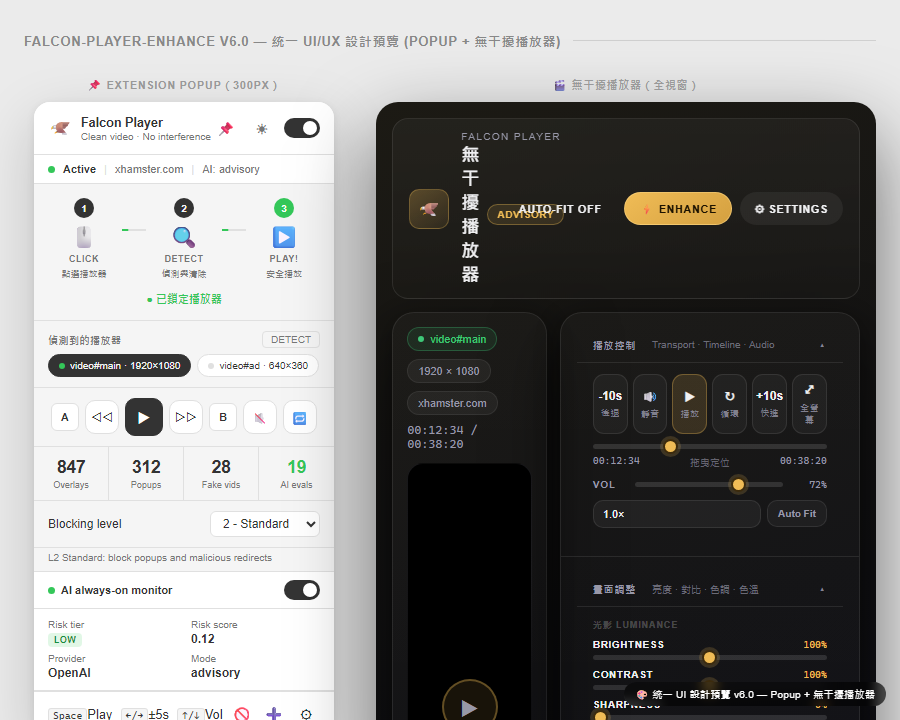
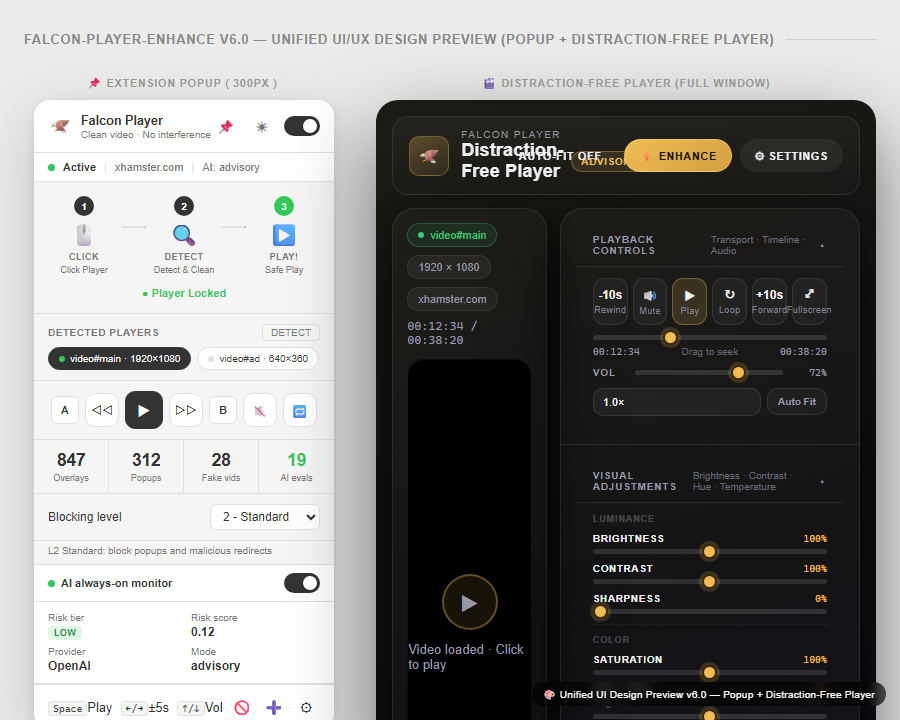
docs: retake all screenshots with English UI text
- Updated take-screenshots.js with runtime Chinese→English translation injection
- All preview page screenshots now display English UI labels
- Translation maps for both player-ui-preview and dashboard-preview
- Covers: controls, section headers, tooltips, banners, aria-labels

diff --git a/docs/take-screenshots.js b/docs/take-screenshots.js
@@ -5,26 +5,228 @@ const PROJECT_ROOT = path.resolve(__dirname, '..');
 const SCREENSHOTS_DIR = path.join(PROJECT_ROOT, 'docs', 'screenshots');
 const BASE = 'file:///' + PROJECT_ROOT.replace(/\\/g, '/');
 
+// ── Chinese → English translation map for Player preview ──
+function injectPlayerEnglish() {
+  const map = {
+    '統一 UI/UX 設計預覽 (Popup + 無干擾播放器)': 'Unified UI/UX Design Preview (Popup + Distraction-Free Player)',
+    '統一 UI/UX 設計預覽': 'Unified UI/UX Design Preview',
+    '點選播放器': 'Click Player',
+    '偵測與清除': 'Detect & Clean',
+    '安全播放': 'Safe Play',
+    '● 已鎖定播放器': '● Player Locked',
+    '已鎖定播放器': 'Player Locked',
+    '偵測到的播放器': 'Detected Players',
+    'Three-Gray token system · 300px 固定寬 · 支援深色模式':
+      'Three-Gray token system · 300px fixed width · Dark mode support',
+    '無干擾播放器（全視窗）': 'Distraction-Free Player (Full Window)',
+    '無干擾播放器': 'Distraction-Free Player',
+    '影片已載入 · 點選播放': 'Video loaded · Click to play',
+    '播放控制': 'Playback Controls',
+    '後退': 'Rewind',
+    '靜音': 'Mute',
+    '播放': 'Play',
+    '循環': 'Loop',
+    '快進': 'Forward',
+    '全螢幕': 'Fullscreen',
+    '拖曳定位': 'Drag to seek',
+    '畫面調整': 'Visual Adjustments',
+    '亮度 · 對比 · 色調 · 色溫': 'Brightness · Contrast · Hue · Temperature',
+    '光影 Luminance': 'Luminance',
+    '色彩 Color': 'Color',
+    '色調 Tint': 'Hue / Tint',
+    '洋紅 M': 'Magenta',
+    '綠 G': 'Green',
+    '色溫 Temp': 'Temperature',
+    '中性': 'Neutral',
+    '冷 Cool': 'Cool',
+    '暖 Warm': 'Warm',
+    '防護設定': 'Protection Settings',
+    'Link Shield · 嵌入保護': 'Link Shield · Embed Protection',
+    '封鎖嵌入連結': 'Block Embed Links',
+    '舞台重置': 'Reset Stage',
+    '在 iframe 模式下，防護層覆蓋嵌入頁面，防止意外廣告點擊與外部跳轉。':
+      'In iframe mode, the shield covers the embedded page to prevent accidental ad clicks and external redirects.',
+    '音量': 'Volume',
+    '設計說明 — 一致性決策': 'Design Notes — Consistency Decisions',
+    '共用 Token（兩個 UI 都遵守）': 'Shared Tokens (Both UIs)',
+    'Radius scale 統一': 'Unified radius scale',
+    'Font stack 統一': 'Unified font stack',
+    'Motion 統一': 'Unified motion easing',
+    'Accent 橋接': 'Accent bridging',
+    'Popup 主要改動': 'Popup Key Changes',
+    'Status bar 新增': 'New status bar',
+    'Player chip 重設計': 'Player chip redesign',
+    'Stats 第 4 欄': 'Stats 4th column',
+    'AI monitor panel 精簡': 'Streamlined AI monitor',
+    'Player v6 主要改動': 'Player v6 Key Changes',
+    '3 折疊分區取代 5 固定 section': '3 collapsible sections replace 5 fixed',
+    'Transport 改為 6 按鈕橫排': 'Transport: 6-button row layout',
+    '畫面調整新增色調 Tint + 色溫 Temp': 'Added Hue/Tint + Color Temperature',
+    '移除 AI panel': 'Removed AI panel',
+    'Token 對照表': 'Token Reference',
+    '用途': 'Usage',
+    '背景': 'Background',
+    '卡片': 'Card',
+    '主文字': 'Primary text',
+    '主動色': 'Active accent',
+    '反色': 'Inverse',
+    '成功/安全': 'Success/Safe',
+    '危險': 'Danger',
+    'Radius 基準': 'Radius base',
+    '統一 UI 設計預覽 v6.0 — Popup + 無干擾播放器':
+      'Unified UI Design Preview v6.0 — Popup + Distraction-Free Player',
+    'Cinema dark · oklch 主色橋接為 amber (#F0BC56) · v6: 3 折疊分區 · 無 AI panel · 色調/色溫':
+      'Cinema dark · oklch accent bridged to amber (#F0BC56) · v6: 3 collapsible sections · No AI panel · Hue/Temperature',
+  };
+  const walker = document.createTreeWalker(document.body, NodeFilter.SHOW_TEXT);
+  while (walker.nextNode()) {
+    const node = walker.currentNode;
+    const trimmed = node.textContent.trim();
+    for (const [zh, en] of Object.entries(map)) {
+      if (node.textContent.includes(zh)) {
+        node.textContent = node.textContent.replace(zh, en);
+      }
+    }
+  }
+  // Also patch title
+  document.title = document.title.replace(/統一 UI\/UX 設計預覽.*/, 'Unified UI/UX Design Preview v6.0');
+  // Patch preview banner (has emoji prefix, aria-hidden)
+  const banner = document.querySelector('.preview-banner');
+  if (banner) banner.textContent = '🎨 Unified UI Design Preview v6.0 — Popup + Distraction-Free Player';
+}
+
+// ── Chinese → English translation map for Dashboard preview ──
+function injectDashboardEnglish() {
+  const map = {
+    '重構預覽': 'Preview',
+    '深色模式': 'Dark Mode',
+    '淺色模式': 'Light Mode',
+    '擴充功能狀態總覽與常用設定': 'Extension status overview and common settings',
+    '目前分頁：youtube.com': 'Current tab: youtube.com',
+    '統計數據': 'Statistics',
+    '保護功能': 'Protection',
+    '自動移除影片上的廣告遮罩': 'Automatically remove ad overlays on videos',
+    '阻擋新視窗彈出': 'Block new window popups',
+    '移除假播放器陷阱': 'Remove fake player traps',
+    '同步播放進度': 'Sync playback progress',
+    'Popup 顯示': 'Popup Display',
+    '讓 popup 播放器自動調整大小': 'Auto-fit popup player window size',
+    '在 popup 中顯示 AI 決策監控面板': 'Show AI decision monitor in popup',
+    '快捷鍵參考': 'Keyboard Shortcuts',
+    '開啟 popup': 'Open popup',
+    '切換全螢幕': 'Toggle fullscreen',
+    '靜音切換': 'Toggle mute',
+    '後退 10s': 'Rewind 10s',
+    '前進 10s': 'Forward 10s',
+    '音量 +10%': 'Volume +10%',
+    '音量 -10%': 'Volume -10%',
+    '播放/暫停': 'Play / Pause',
+    'AI 評估': 'AI Assessment',
+    '白名單、黑名單與增強站點管理': 'Whitelist, blacklist, and enhanced site management',
+    '白名單': 'Whitelist',
+    '不套用任何規則': 'No rules applied',
+    '黑名單': 'Blacklist',
+    '嚴格保護': 'Strict protection',
+    '增強站點': 'Enhanced Sites',
+    '唯讀': 'read-only',
+    'Enhanced match patterns（技術預覽）': 'Enhanced match patterns (Technical preview)',
+    '目前生效的比對規則（由 background.js 解析）': 'Currently active matching rules (parsed by background.js)',
+    'AI 設定': 'AI Settings',
+    'AI provider 設定與評估模式控制': 'AI provider configuration and assessment mode controls',
+    '狀態': 'Status',
+    '啟用 AI 功能': 'Enable AI features',
+    '評估模式': 'Assessment Mode',
+    '不啟用 AI 評估，所有決策由規則引擎處理': 'No AI assessment; all decisions handled by rule engine',
+    'AI 提供建議，最終動作仍由規則引擎決定，低風險':
+      'AI provides advice; final actions decided by rule engine (low risk)',
+    'AI 可主動套用安全政策，適合需要動態判斷的複雜站點':
+      'AI can proactively apply security policies for complex sites',
+    '進階設定（Timeout / Cooldown / Candidate rules）':
+      'Advanced Settings (Timeout / Cooldown / Candidate rules)',
+    '讓 AI 產生 CSS 選擇器建議規則': 'Let AI generate CSS selector candidate rules',
+    '動作': 'Actions',
+    '政策閘、封鎖元素、沙箱保護與資料管理':
+      'Policy gate, blocked elements, sandbox protection & data management',
+    '沙箱保護': 'Sandbox Protection',
+    '限制站點權限，包括彈出視窗與下載行為':
+      'Restrict site permissions including popups and downloads',
+    '封鎖元素': 'Blocked Elements',
+    '資料管理': 'Data Management',
+    '清除所有計數器（overlays, popups, players, AI assessments）':
+      'Clear all counters (overlays, popups, players, AI assessments)',
+    'Dashboard 重構預覽 v5.0 — 非正式版本': 'Dashboard Preview v5.0 — Unofficial Build',
+    '進階': 'Advanced',
+  };
+  const walker = document.createTreeWalker(document.body, NodeFilter.SHOW_TEXT);
+  while (walker.nextNode()) {
+    const node = walker.currentNode;
+    for (const [zh, en] of Object.entries(map)) {
+      if (node.textContent.includes(zh)) {
+        node.textContent = node.textContent.replace(zh, en);
+      }
+    }
+  }
+  // Patch aria-labels
+  document.querySelectorAll('[aria-label]').forEach(el => {
+    const map2 = {
+      '主選單': 'Main menu',
+      '切換主題': 'Toggle theme',
+      '加入白名單域名': 'Add whitelist domain',
+      '加入黑名單域名': 'Add blacklist domain',
+      '加入自訂增強站點': 'Add custom enhanced site',
+      '啟用 AI 功能': 'Enable AI features',
+      '沙箱保護': 'Sandbox protection',
+      '模型名稱': 'Model name',
+      '本機端點': 'Local endpoint',
+      '逾時毫秒數': 'Timeout (ms)',
+      '冷卻毫秒數': 'Cooldown (ms)',
+    };
+    for (const [zh, en] of Object.entries(map2)) {
+      if (el.getAttribute('aria-label').includes(zh)) {
+        el.setAttribute('aria-label', el.getAttribute('aria-label').replace(zh, en));
+      }
+    }
+  });
+  // Patch placeholders
+  document.querySelectorAll('input[placeholder]').forEach(el => {
+    if (el.placeholder.includes('貼上新的 API key')) el.placeholder = 'Paste new API key';
+  });
+  // Patch remove-button aria-labels
+  document.querySelectorAll('button[aria-label*="移除"]').forEach(el => {
+    el.setAttribute('aria-label', el.getAttribute('aria-label').replace('移除', 'Remove'));
+  });
+  document.title = 'Falcon-Player-Enhance — Dashboard Preview v5.0';
+  // Patch preview banner (has emoji prefix, aria-hidden)
+  const banner = document.querySelector('.preview-banner');
+  if (banner) banner.textContent = '🎨 Dashboard Preview v5.0 — Unofficial Build';
+  // Patch JS-generated theme label
+  const themeLabel = document.getElementById('themeLabel');
+  if (themeLabel && themeLabel.textContent.includes('深色')) themeLabel.textContent = 'Dark Mode';
+  if (themeLabel && themeLabel.textContent.includes('淺色')) themeLabel.textContent = 'Light Mode';
+}
+
 async function run() {
   const browser = await chromium.launch();
-  
+
   // ========== 1. Player UI Preview (Dark) ==========
   console.log('1. Player Preview (Dark)...');
   let page = await browser.newPage({ viewport: { width: 900, height: 720 } });
   await page.goto(`${BASE}/docs/player-ui-preview.html`, { waitUntil: 'networkidle' });
-  await page.waitForTimeout(1000);
+  await page.waitForTimeout(500);
+  await page.evaluate(injectPlayerEnglish);
+  await page.waitForTimeout(300);
   await page.screenshot({ path: path.join(SCREENSHOTS_DIR, '01-player-dark-full.png'), fullPage: false });
   console.log('   => 01-player-dark-full.png');
-  
+
   // Scroll to control rail
   await page.evaluate(() => {
     const rail = document.querySelector('.control-rail') || document.querySelector('.rail-section');
     if (rail) rail.scrollIntoView({ behavior: 'instant' });
   });
-  await page.waitForTimeout(500);
+  await page.waitForTimeout(300);
   await page.screenshot({ path: path.join(SCREENSHOTS_DIR, '02-player-dark-controls.png'), fullPage: false });
   console.log('   => 02-player-dark-controls.png');
-  
+
   // ========== 2. Player UI Preview (Light) ==========
   console.log('2. Player Preview (Light)...');
   const themeBtn = await page.$('#btn-theme, .btn-theme');
@@ -35,11 +237,12 @@ async function run() {
     await page.evaluate(() => { document.body.dataset.theme = 'light'; });
     await page.waitForTimeout(500);
   }
+  await page.evaluate(injectPlayerEnglish); // Re-inject after theme switch
   await page.evaluate(() => window.scrollTo(0, 0));
   await page.waitForTimeout(300);
   await page.screenshot({ path: path.join(SCREENSHOTS_DIR, '03-player-light-full.png'), fullPage: false });
   console.log('   => 03-player-light-full.png');
-  
+
   // Light controls
   await page.evaluate(() => {
     const rail = document.querySelector('.control-rail') || document.querySelector('.rail-section');
@@ -49,28 +252,32 @@ async function run() {
   await page.screenshot({ path: path.join(SCREENSHOTS_DIR, '04-player-light-controls.png'), fullPage: false });
   console.log('   => 04-player-light-controls.png');
   await page.close();
-  
+
   // ========== 3. Dashboard Preview ==========
   console.log('3. Dashboard Preview...');
   page = await browser.newPage({ viewport: { width: 1200, height: 800 } });
   await page.goto(`${BASE}/docs/dashboard-preview.html`, { waitUntil: 'networkidle' });
-  await page.waitForTimeout(1000);
+  await page.waitForTimeout(500);
+  await page.evaluate(injectDashboardEnglish);
+  await page.waitForTimeout(300);
   await page.screenshot({ path: path.join(SCREENSHOTS_DIR, '05-dashboard-overview.png'), fullPage: false });
   console.log('   => 05-dashboard-overview.png');
-  
+
   // Click through tabs
   for (const tab of ['sites', 'ai', 'advanced']) {
     const el = await page.$(`[data-tab="${tab}"]`);
     if (el) {
       await el.click();
-      await page.waitForTimeout(600);
+      await page.waitForTimeout(400);
+      await page.evaluate(injectDashboardEnglish); // Re-inject after tab switch
+      await page.waitForTimeout(200);
       const idx = { sites: '06', ai: '07', advanced: '08' }[tab];
       await page.screenshot({ path: path.join(SCREENSHOTS_DIR, `${idx}-dashboard-${tab}.png`), fullPage: false });
       console.log(`   => ${idx}-dashboard-${tab}.png`);
     }
   }
   await page.close();
-  
+
   // ========== 4. Popup HTML ==========
   console.log('4. Popup...');
   page = await browser.newPage({ viewport: { width: 420, height: 700 } });
@@ -79,7 +286,7 @@ async function run() {
   await page.screenshot({ path: path.join(SCREENSHOTS_DIR, '09-popup-main.png'), fullPage: true });
   console.log('   => 09-popup-main.png');
   await page.close();
-  
+
   // ========== 5. Popup Player HTML ==========
   console.log('5. Popup Player...');
   page = await browser.newPage({ viewport: { width: 900, height: 700 } });
@@ -88,7 +295,7 @@ async function run() {
   await page.screenshot({ path: path.join(SCREENSHOTS_DIR, '10-popup-player-actual.png'), fullPage: true });
   console.log('   => 10-popup-player-actual.png');
   await page.close();
-  
+
   // ========== 6. Dashboard HTML ==========
   console.log('6. Dashboard (actual)...');
   page = await browser.newPage({ viewport: { width: 1200, height: 800 } });
@@ -97,19 +304,23 @@ async function run() {
   await page.screenshot({ path: path.join(SCREENSHOTS_DIR, '11-dashboard-actual.png'), fullPage: true });
   console.log('   => 11-dashboard-actual.png');
   await page.close();
-  
+
   // ========== 7. Full page preview screenshots ==========
   console.log('7. Full page previews...');
   page = await browser.newPage({ viewport: { width: 900, height: 720 } });
   await page.goto(`${BASE}/docs/player-ui-preview.html`, { waitUntil: 'networkidle' });
-  await page.waitForTimeout(1000);
+  await page.waitForTimeout(500);
+  await page.evaluate(injectPlayerEnglish);
+  await page.waitForTimeout(300);
   await page.screenshot({ path: path.join(SCREENSHOTS_DIR, '12-player-fullpage.png'), fullPage: true });
   console.log('   => 12-player-fullpage.png');
   await page.close();
-  
+
   page = await browser.newPage({ viewport: { width: 1200, height: 800 } });
   await page.goto(`${BASE}/docs/dashboard-preview.html`, { waitUntil: 'networkidle' });
-  await page.waitForTimeout(1000);
+  await page.waitForTimeout(500);
+  await page.evaluate(injectDashboardEnglish);
+  await page.waitForTimeout(300);
   await page.screenshot({ path: path.join(SCREENSHOTS_DIR, '13-dashboard-fullpage.png'), fullPage: true });
   console.log('   => 13-dashboard-fullpage.png');
   await page.close();
